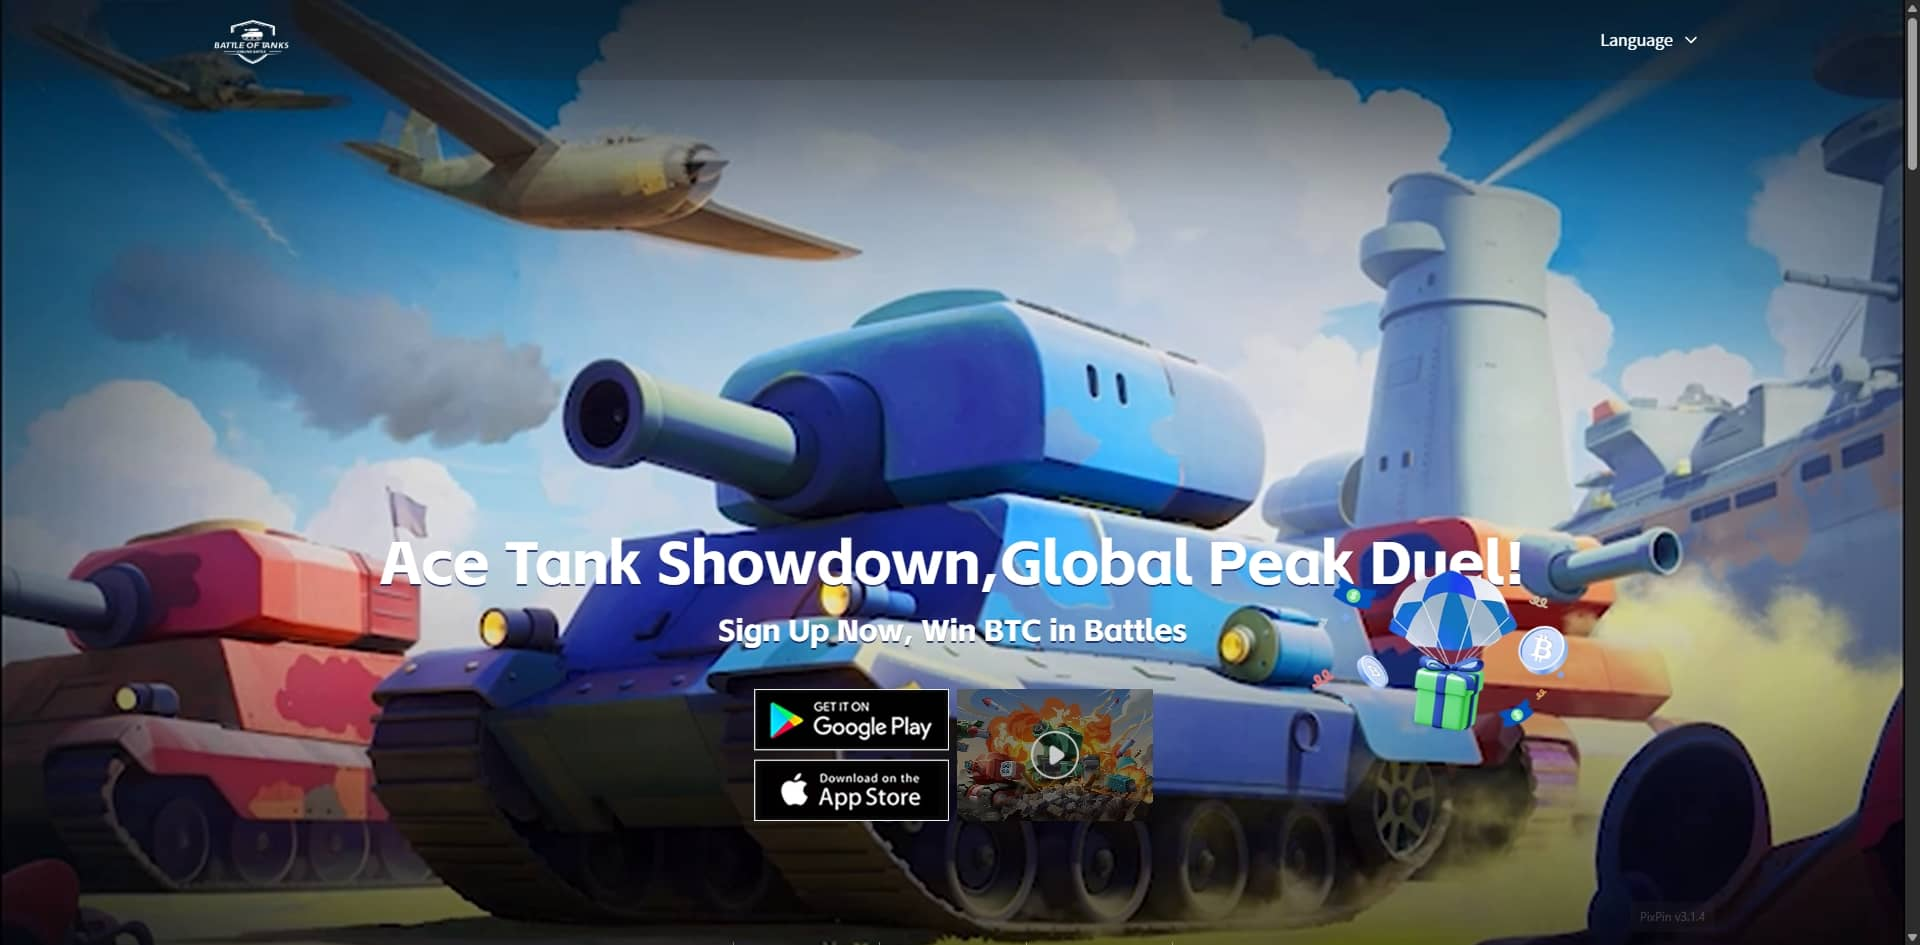
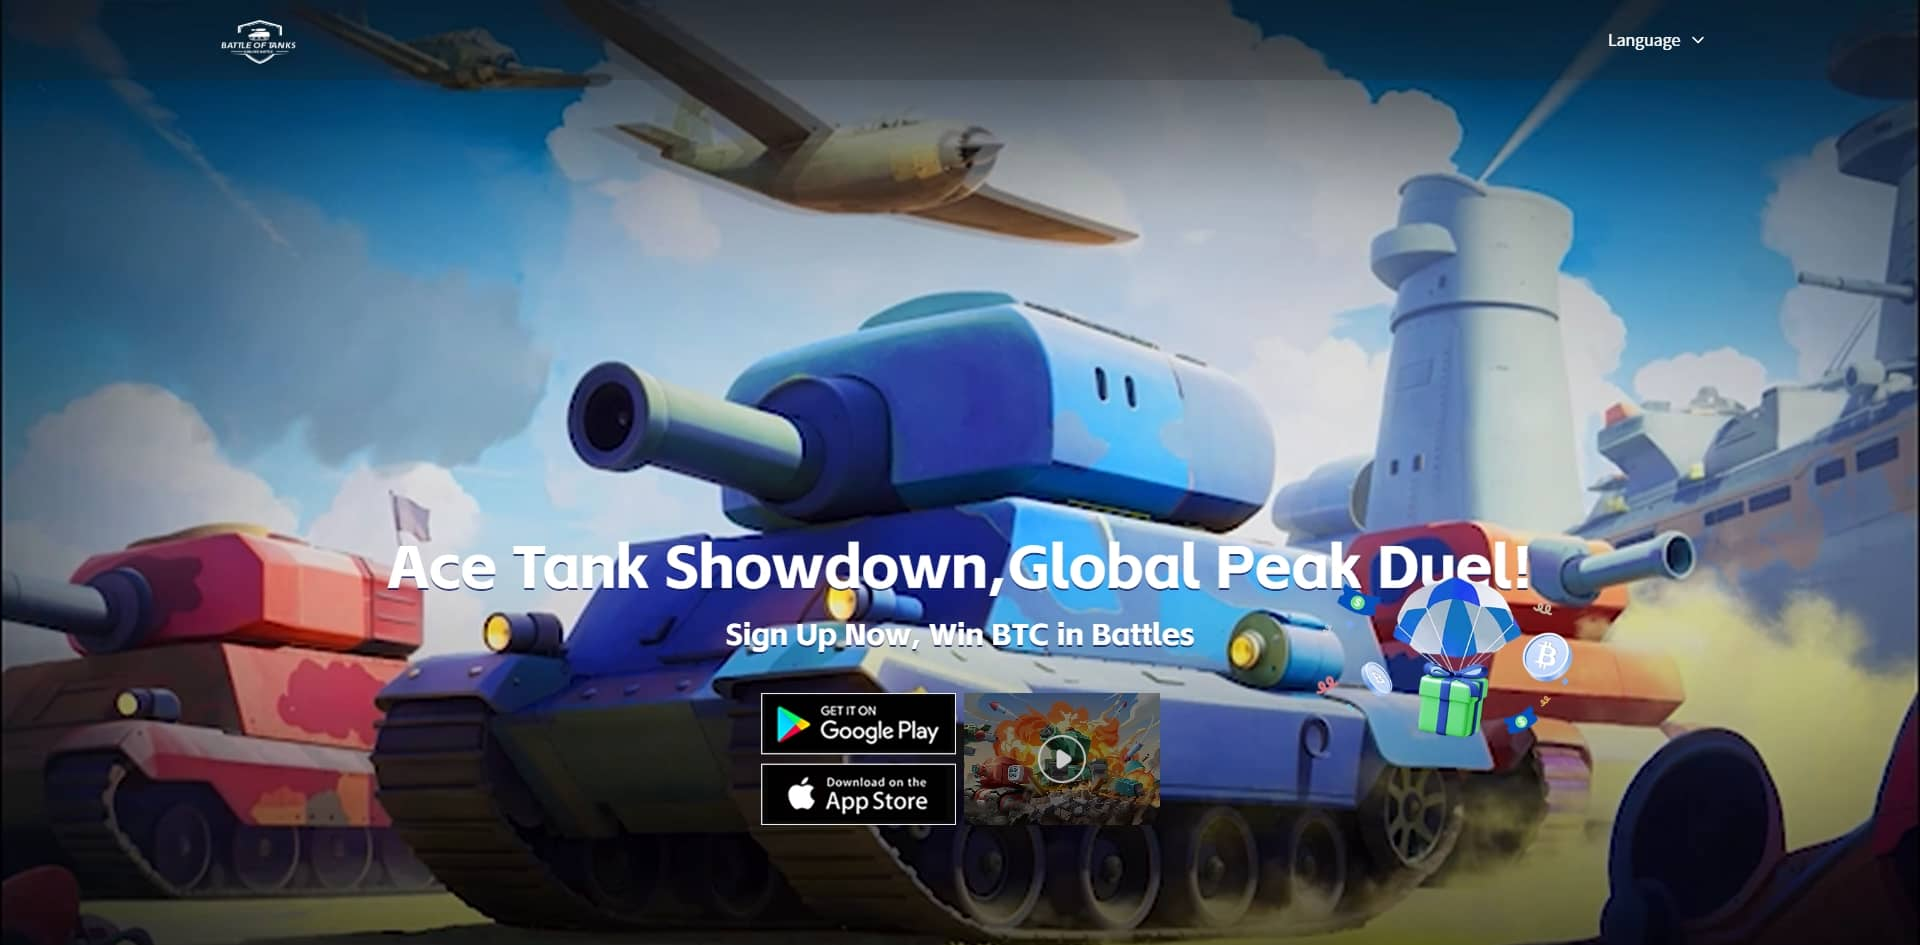
feat: 更新

diff --git a/app/components/projects/website/Chapter.vue b/app/components/projects/website/Chapter.vue
@@ -24,24 +24,25 @@ const stats = [
 
 const projects = [
   {
-    name: 'MarsX',
-    pc: '/img/marsx-old-ow-pc.jpg',
-    mobile: '/img/marsx-old-ow-mb.jpg',
-    type: 'Gaming Website',
-    url: 'https://marsx.itopline.com/'
-  },
-  {
     name: 'Panda',
     pc: '/img/panda-ow-pc1.jpg',
     mobile: '/img/panda-ow-mb1.jpg',
     type: 'Brand Website',
-    url: 'https://panda.chidiao.xin/'
+    url: 'https://panda.chidiao.xin'
   },
   {
-    name: 'Panda Detail',
-    pc: '/img/panda-ow-pc2.jpg',
-    mobile: '/img/panda-ow-mb2.jpg',
-    type: 'Responsive Page'
+    name: 'GBEI',
+    pc: '/img/gbei-ow-pc.jpg',
+    mobile: '/img/gbei-ow-mb.jpg',
+    type: 'Business Website',
+    url: 'https://gbei.chidiao.xin'
+  },
+  {
+    name: 'Tank',
+    pc: '/img/tank-ow-pc.jpg',
+    mobile: '/img/tank-ow-mb.jpg',
+    type: 'Gaming Website',
+    url: 'https://tank.chidiao.xin'
   },
   {
     name: 'CRM',
@@ -56,11 +57,11 @@ const projects = [
     type: 'Landing Page'
   },
   {
-    name: 'Tank',
-    pc: '/img/tank-ow-pc.jpg',
-    mobile: '/img/tank-ow-mb.jpg',
-    type: 'Product Website',
-    url: 'https://tank.chidiao.xin/'
+    name: 'MarsX',
+    pc: '/img/marsx-old-ow-pc.jpg',
+    mobile: '/img/marsx-old-ow-mb.jpg',
+    type: 'Gaming Social',
+    url: 'https://marsx.itopline.com'
   }
 ]
 </script>